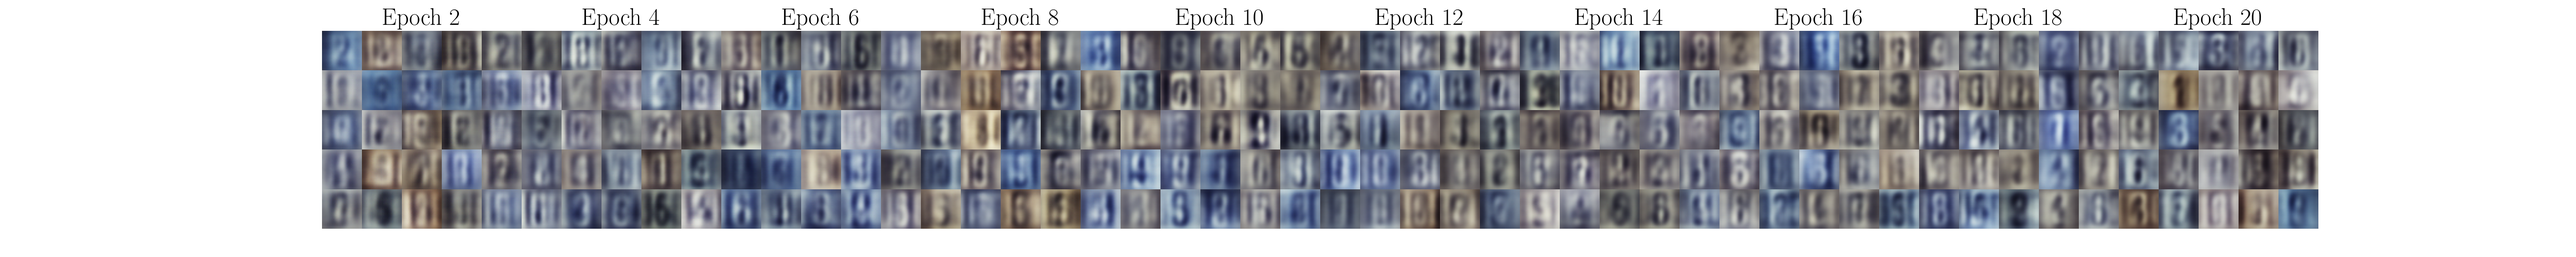
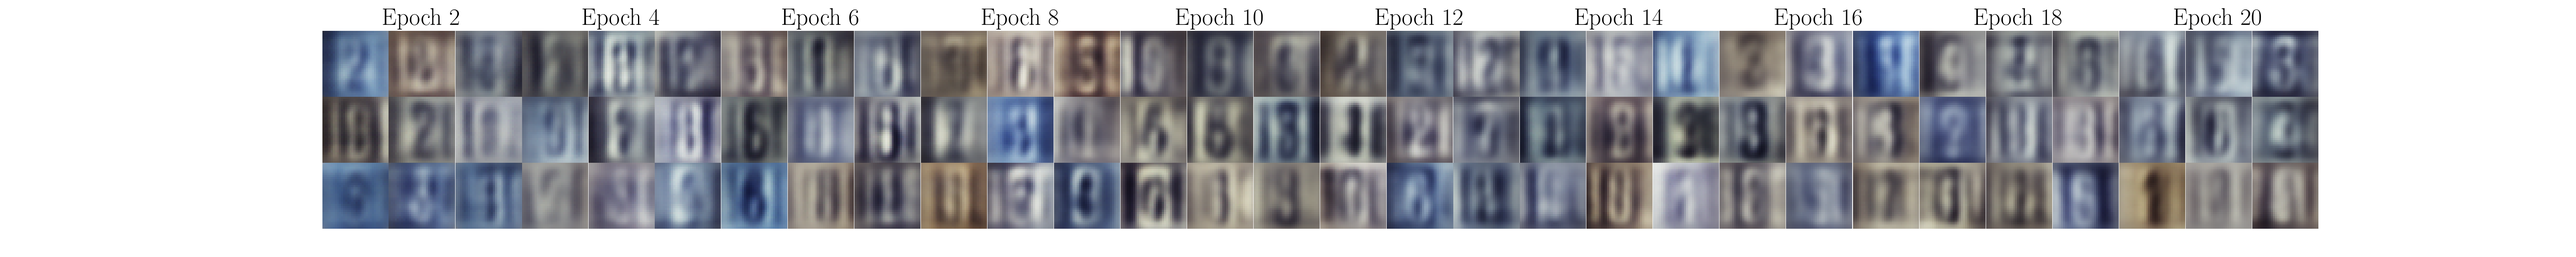
fix

diff --git a/plotting/results/training_evolution.py b/plotting/results/training_evolution.py
@@ -11,7 +11,7 @@ plt.rcParams.update({
 })
 
 save_name = "figures/results/svhn_mle_evol.png"
-file_path = "logs/Thermodynamic/n_z=100/SVHN_1"
+file_path = "logs/Vanilla/n_z=100/ULA/cnn=true/SVHN_1"
 
 epochs = [2, 4, 6, 8, 10, 12, 14, 16, 18, 20]
 
